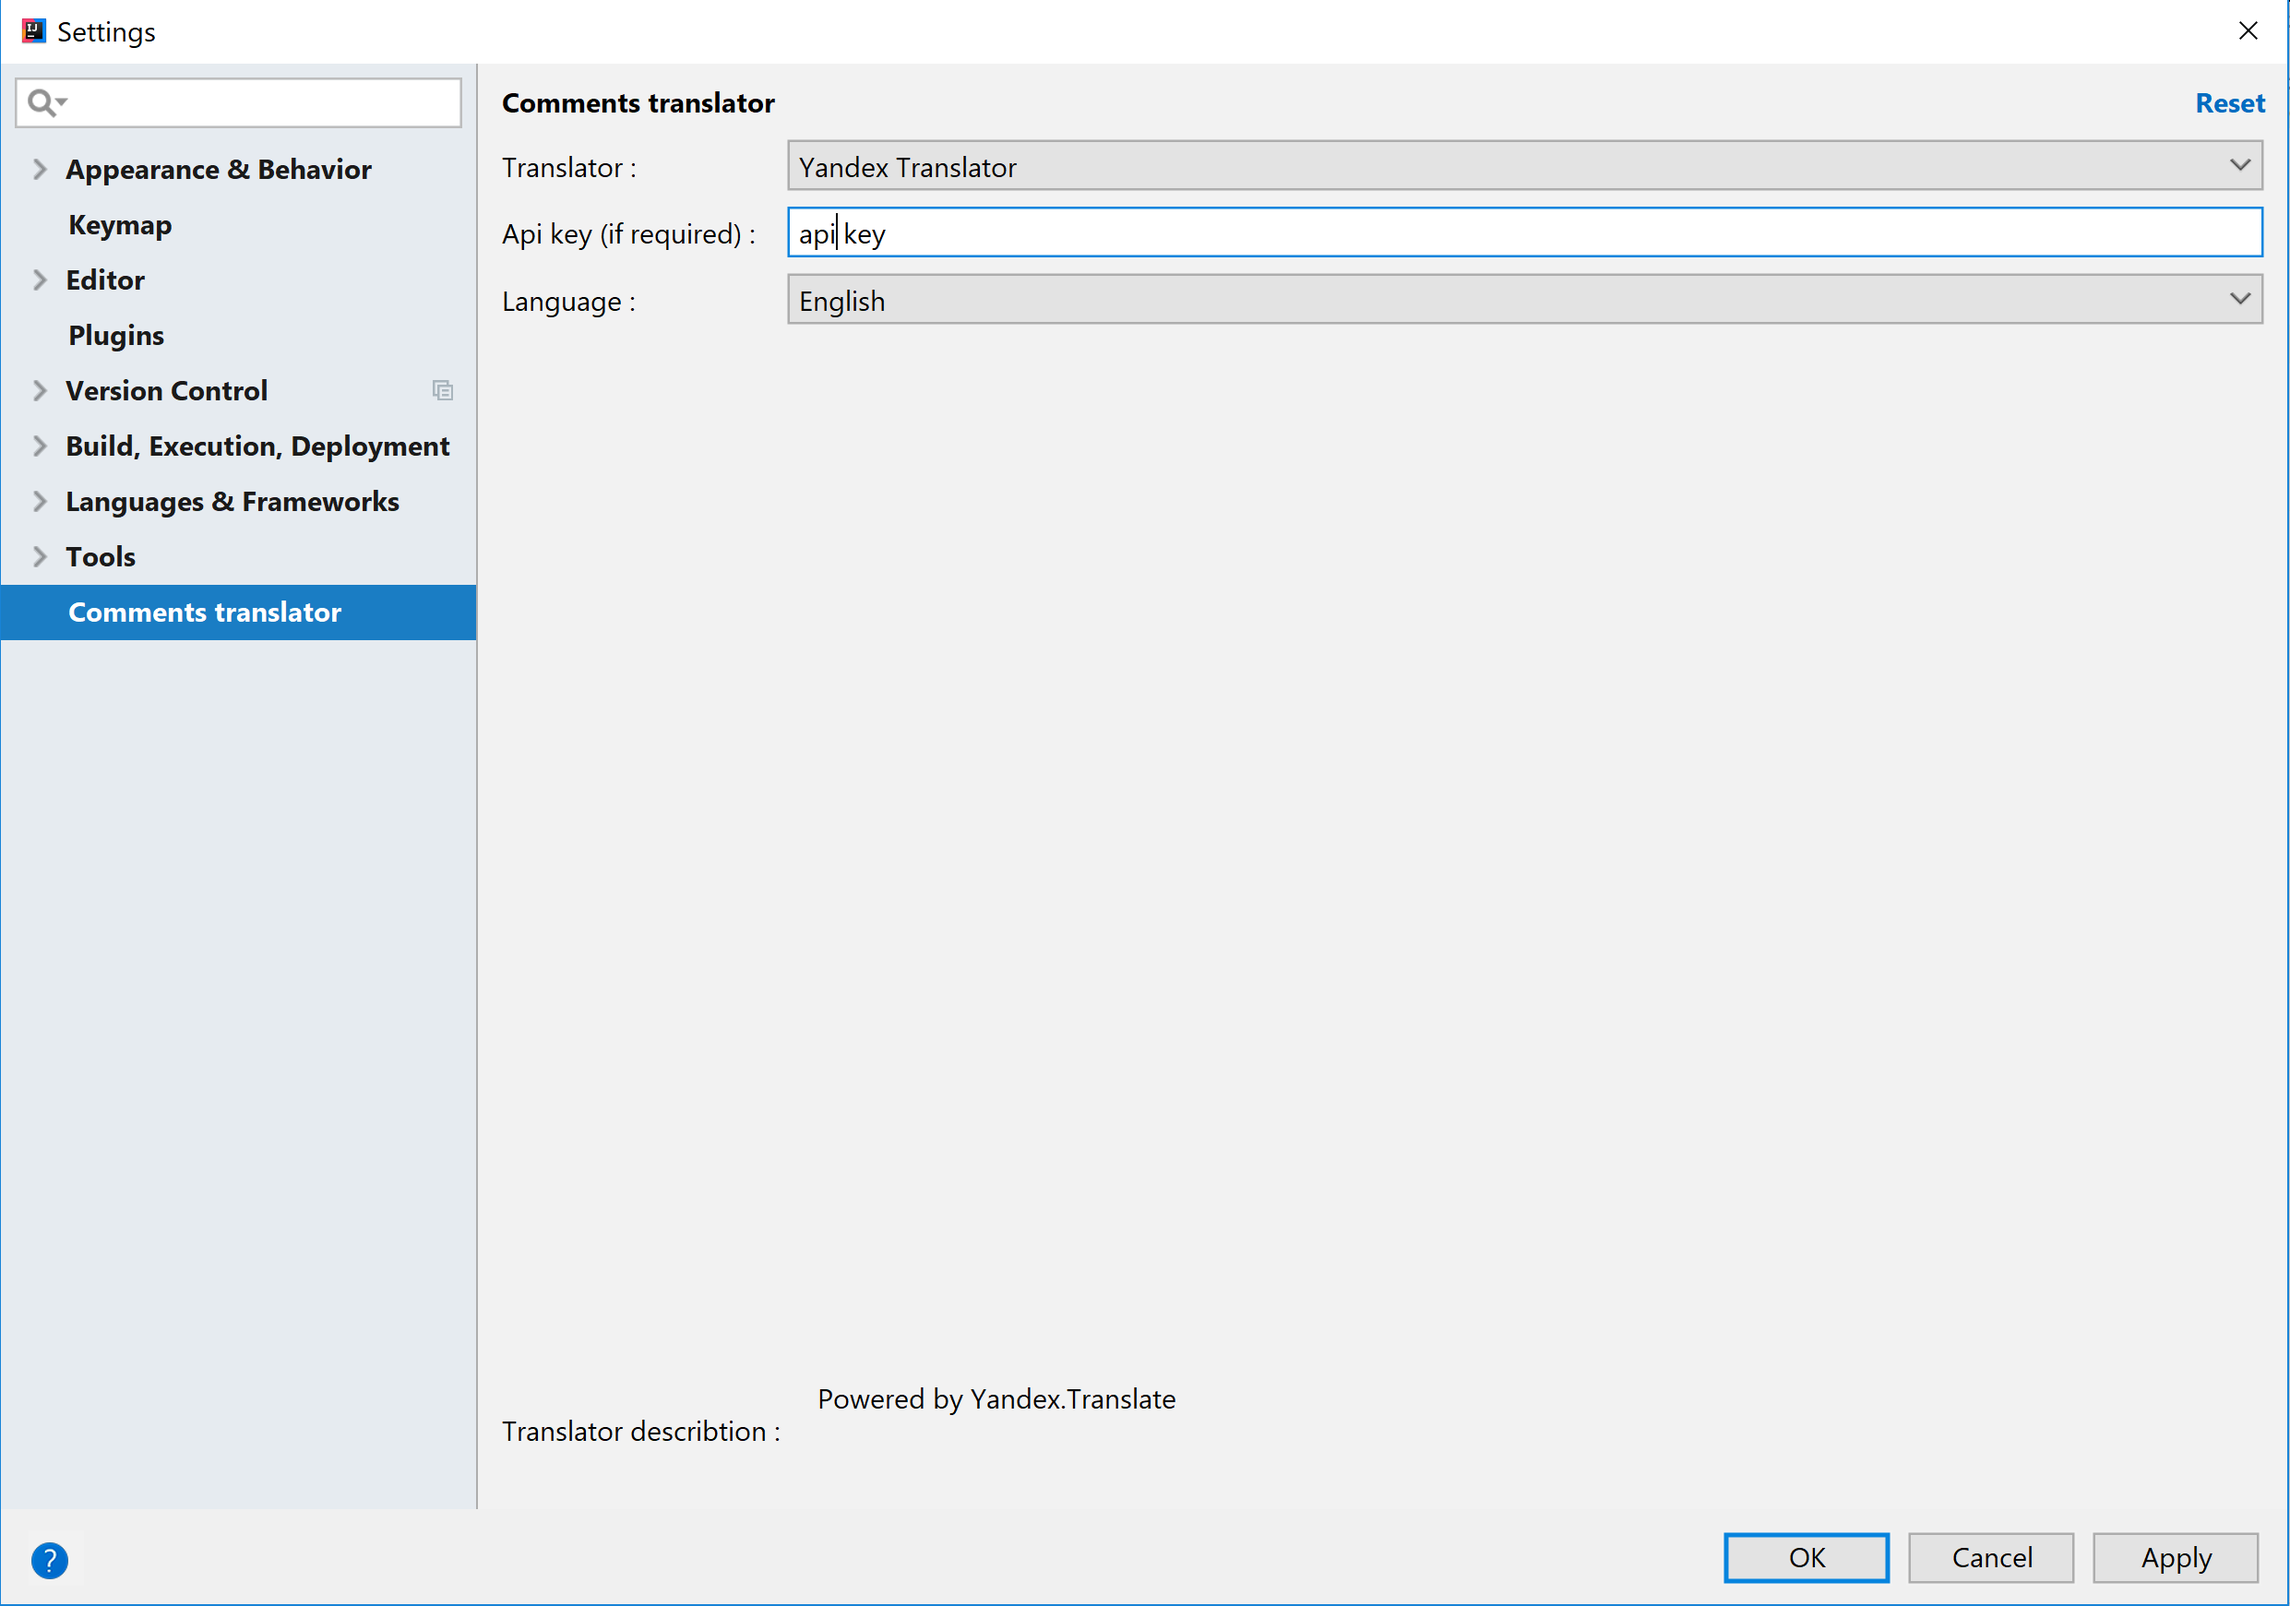
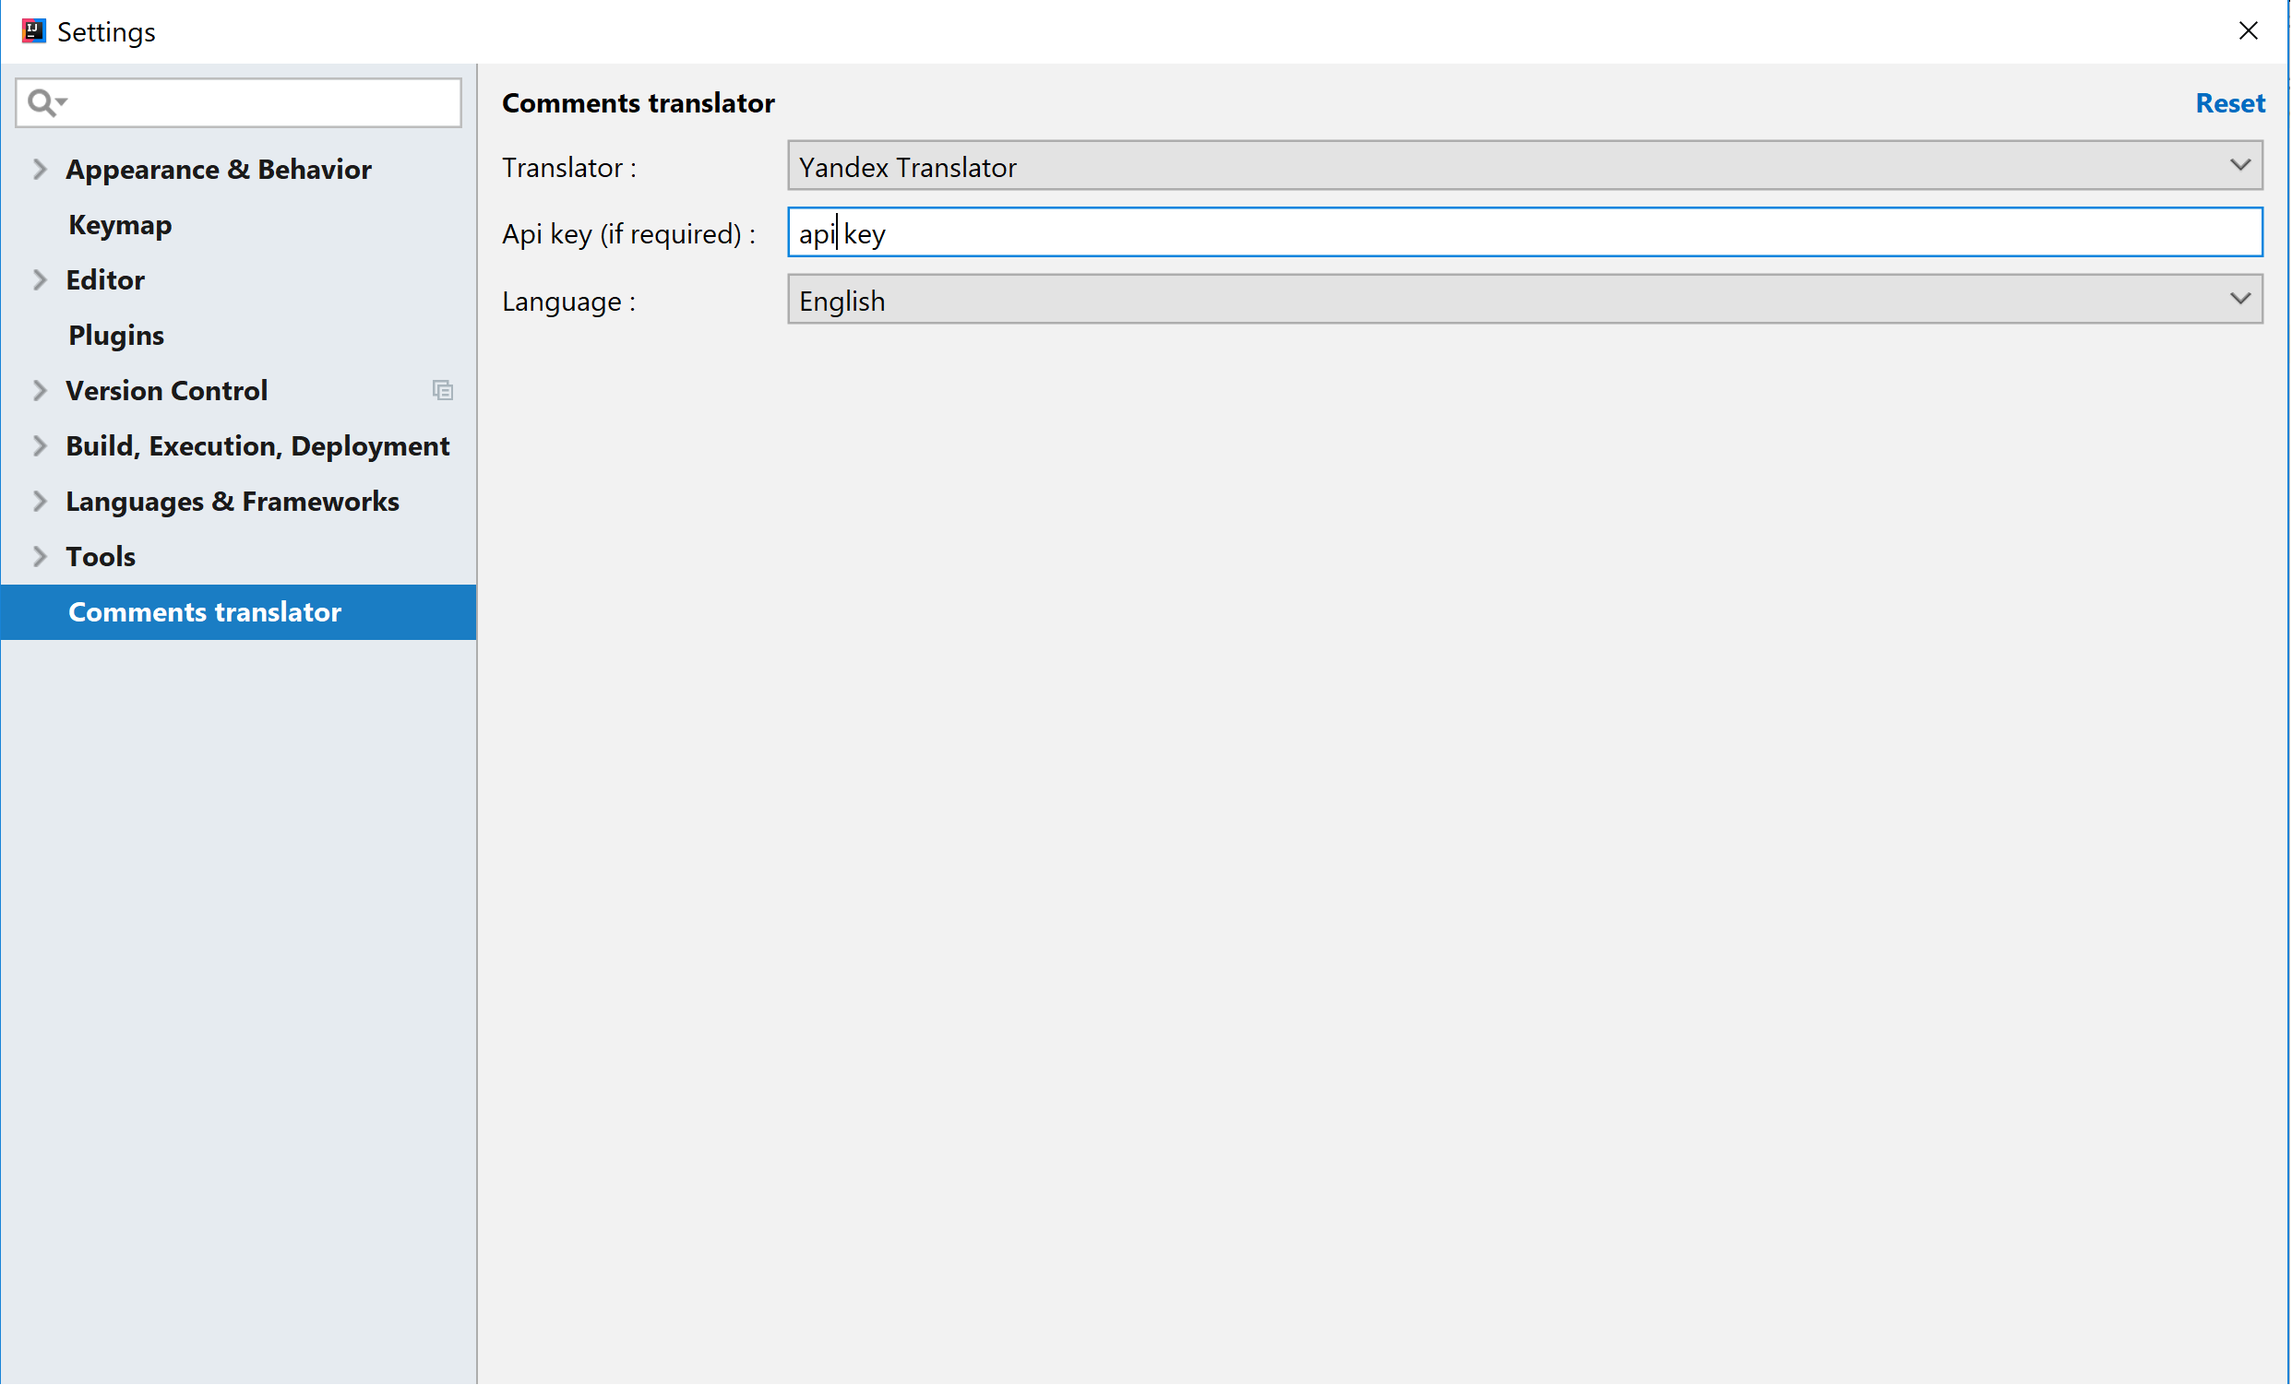
Readme: Grammar fix

diff --git a/src/main/java/com/nicklyu/translator/settings/ui/CommentsTranslatorSettingsFormTemplate.java b/src/main/java/com/nicklyu/translator/settings/ui/CommentsTranslatorSettingsFormTemplate.java
@@ -35,7 +35,7 @@ public abstract class CommentsTranslatorSettingsFormTemplate {
         panel1.setLayout(new GridLayoutManager(1, 2, new Insets(0, 0, 0, 0), -1, -1));
         rootPanel.add(panel1, new GridConstraints(2, 0, 1, 1, GridConstraints.ANCHOR_CENTER, GridConstraints.FILL_BOTH, GridConstraints.SIZEPOLICY_CAN_SHRINK | GridConstraints.SIZEPOLICY_CAN_GROW, GridConstraints.SIZEPOLICY_CAN_SHRINK | GridConstraints.SIZEPOLICY_CAN_GROW, null, null, null, 0, false));
         final JLabel label1 = new JLabel();
-        label1.setText("Translator describtion : ");
+        label1.setText("Translator description : ");
         panel1.add(label1, new GridConstraints(0, 0, 1, 1, GridConstraints.ANCHOR_WEST, GridConstraints.FILL_NONE, GridConstraints.SIZEPOLICY_FIXED, GridConstraints.SIZEPOLICY_FIXED, null, null, null, 0, false));
         translatorDesctibtionPane = new JTextPane();
         panel1.add(translatorDesctibtionPane, new GridConstraints(0, 1, 1, 1, GridConstraints.ANCHOR_CENTER, GridConstraints.FILL_BOTH, GridConstraints.SIZEPOLICY_WANT_GROW, GridConstraints.SIZEPOLICY_WANT_GROW, null, new Dimension(150, 50), null, 0, false));
